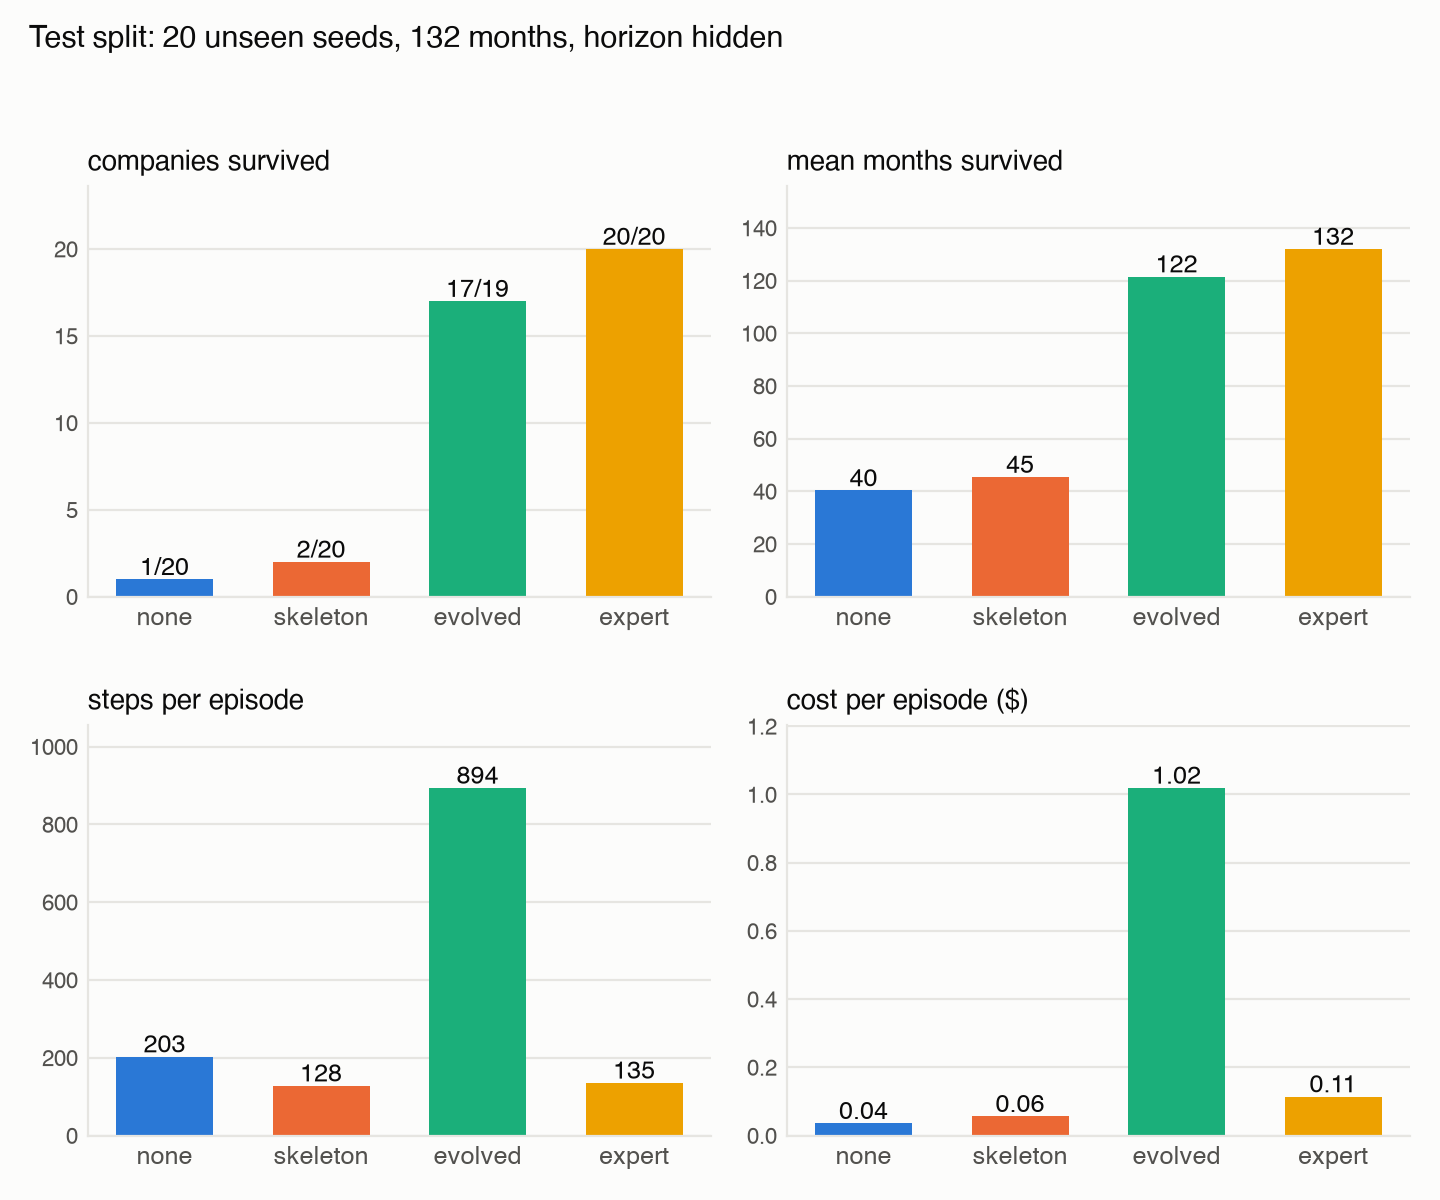
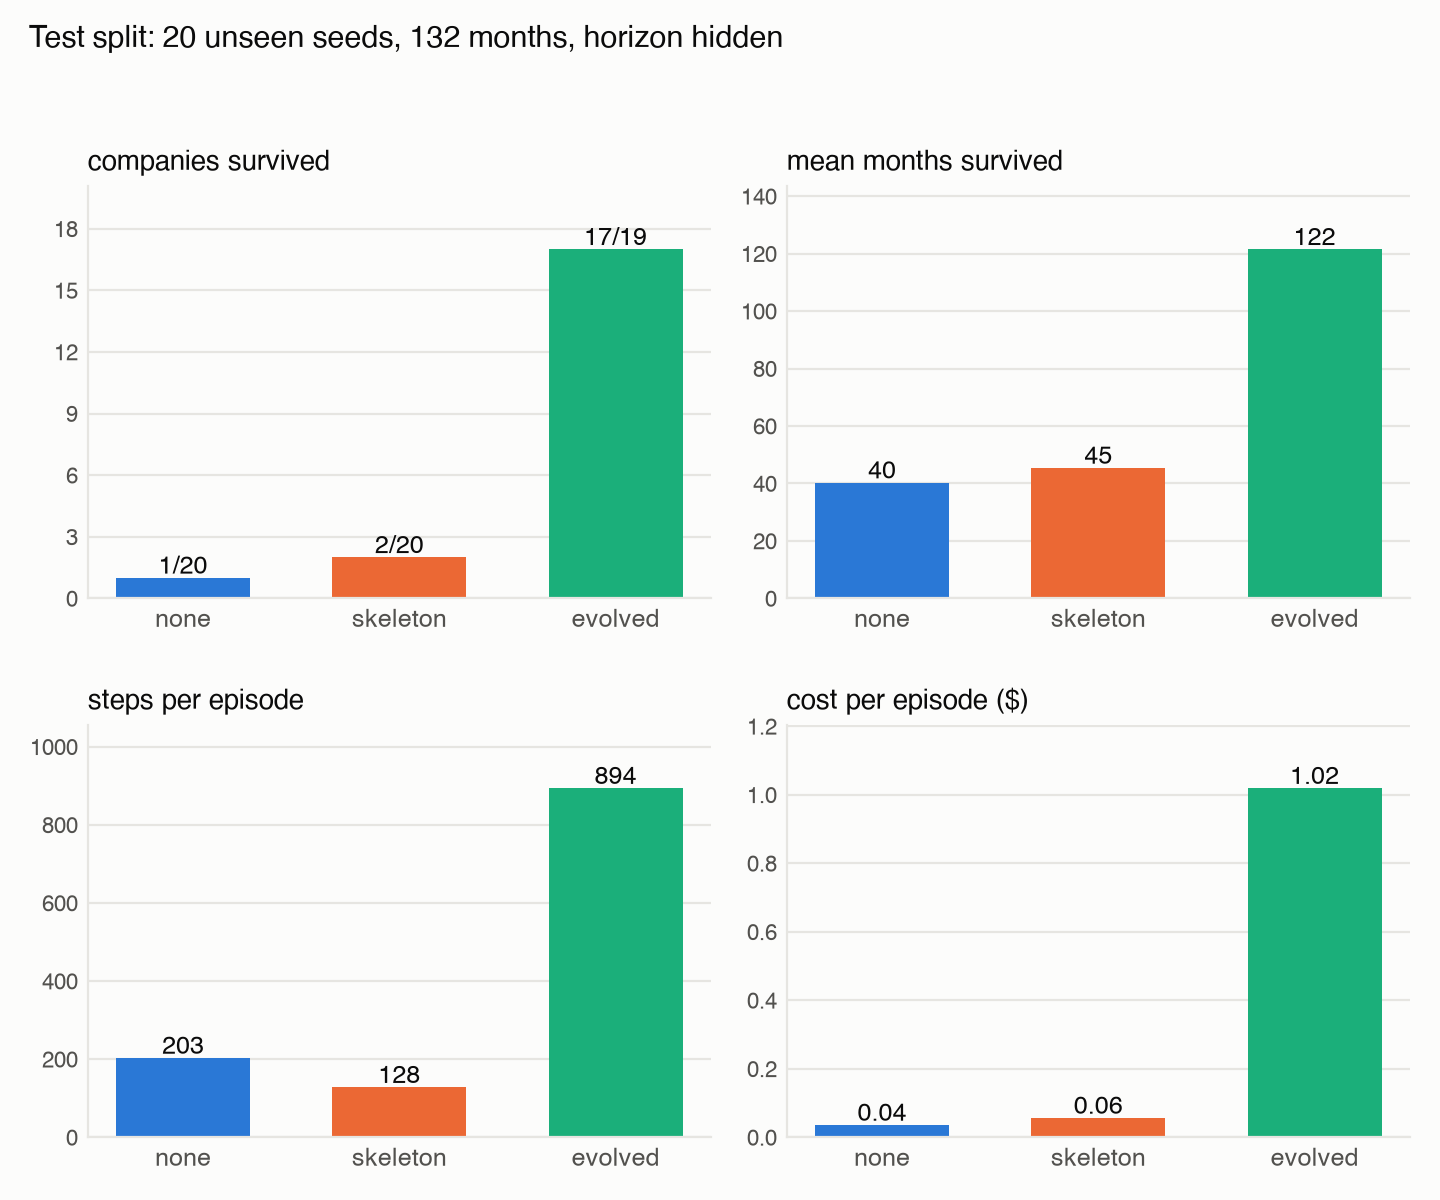
Charts: --exclude option; ea-run3 figures without the expert graph

diff --git a/analysis/result_charts.py b/analysis/result_charts.py
@@ -15,6 +15,7 @@ from statistics import mean
 
 import matplotlib
 import matplotlib.pyplot as plt
+import matplotlib.ticker
 
 from pg.evaluate import label_of
 from pg.trajectory import read_jsonl
@@ -37,9 +38,10 @@ def short(spec: str) -> str:
 ORDER = ["none", "skeleton", "evolved", "expert"]  # least to most procedural knowledge; anything else goes after, as run
 
 
-def load(run_dir: Path) -> dict[str, list]:
-    """Trajectories per graph, ordered none -> skeleton -> evolved -> expert, errored episodes dropped."""
-    specs = [r["graph"] for r in json.loads((run_dir / "metrics.json").read_text())]
+def load(run_dir: Path, exclude: set[str] = frozenset()) -> dict[str, list]:
+    """Trajectories per graph, ordered none -> skeleton -> evolved -> expert, errored episodes dropped.
+    `exclude` names graphs (by their short label) to leave out."""
+    specs = [r["graph"] for r in json.loads((run_dir / "metrics.json").read_text()) if short(r["graph"]) not in exclude]
     specs.sort(key=lambda s: ORDER.index(short(s)) if short(s) in ORDER else len(ORDER))
     return {s: [t for t in read_jsonl(run_dir / f"{label_of(s)}.jsonl") if not t.error] for s in specs}
 
@@ -63,6 +65,8 @@ def metrics_panel(data: dict, out: Path) -> None:
             ax.text(b.get_x() + b.get_width() / 2, b.get_height(), label, ha="center", va="bottom", fontsize=9, color=INK)
         ax.set_title(title, loc="left", fontsize=10, color=INK)
         ax.set_ylim(0, max(vals) * 1.18)
+        if title.startswith("companies"):
+            ax.yaxis.set_major_locator(matplotlib.ticker.MaxNLocator(integer=True))
         ax.tick_params(axis="x", length=0, labelsize=9); ax.tick_params(axis="y", length=0, labelsize=8)
         ax.grid(axis="y", color=GRID, linewidth=0.8); ax.set_axisbelow(True)
     fig.suptitle("Test split: 20 unseen seeds, 132 months, horizon hidden", x=0.02, ha="left", fontsize=11, color=INK)
@@ -76,12 +80,12 @@ def survival(data: dict, out: Path) -> None:
         months = [t.metrics["months_survived"] for t in ts]
         xs = list(range(horizon + 1)); ys = [sum(m >= x for m in months) / len(months) for x in xs]
         ax.step(xs, ys, where="post", color=color, linewidth=2)
-        ax.text(horizon + 1.5, ys[-1] + (0.03 if spec.endswith("expert.json") else -0.03 if short(spec) == "evolved" else 0),
+        ax.text(horizon + 1.5, ys[-1],
                 f"{short(spec)}  {ys[-1]:.0%}", va="center", fontsize=9, color=INK)
     ax.set_xlim(0, horizon + 22); ax.set_xticks(range(0, horizon + 1, 20)); ax.set_ylim(0, 1.04); ax.set_xlabel("month"); ax.set_ylabel("companies still solvent")
     ax.set_yticks([0, 0.25, 0.5, 0.75, 1]); ax.set_yticklabels(["0%", "25%", "50%", "75%", "100%"])
     ax.grid(axis="y", color=GRID, linewidth=0.8); ax.set_axisbelow(True)
-    ax.set_title("Survival by month, 20 test seeds per graph", loc="left", fontsize=10, color=INK)
+    ax.set_title(f"Survival by month, {max(len(ts) for ts in data.values())} test seeds per graph", loc="left", fontsize=10, color=INK)
     fig.tight_layout(); fig.savefig(out / "survival.png"); plt.close(fig)
 
 
@@ -123,9 +127,10 @@ def main(argv: list[str] | None = None) -> None:
     p.add_argument("run_dir", type=Path)
     p.add_argument("--evolve", type=Path, default=None, help="evolve run directory, for evolution.png")
     p.add_argument("--out", type=Path, default=None, help="default: <run_dir>/charts")
+    p.add_argument("--exclude", default="", help="graphs to leave out, by short label, comma-separated (e.g. expert)")
     a = p.parse_args(argv)
     out = a.out or a.run_dir / "charts"; out.mkdir(parents=True, exist_ok=True)
-    data = load(a.run_dir)
+    data = load(a.run_dir, {x.strip() for x in a.exclude.split(",") if x.strip()})
     metrics_panel(data, out); survival(data, out)
     if a.evolve:
         evolution(a.evolve, out)

diff --git a/analysis/README.md b/analysis/README.md
@@ -7,7 +7,7 @@ from here. Deleting `analysis/` must leave `pg evolve` / `pg eval` fully working
 | File | What it is |
 |---|---|
 | [`paired_comparison.py`](paired_comparison.py) | Is a graph really better? Paired statistics over one or more `pg eval` run directories (bootstrap CI over tasks, exact McNemar on success) |
-| [`result_charts.py`](result_charts.py) | Static charts of an eval run for reports: 2x2 bars (survived, months, steps, cost), survival-by-month curves, and the evolution curve from an evolve log. `uv run --with matplotlib python -m analysis.result_charts runs/<stamp>-eval-<env> --evolve graphs/evolved/<run>` |
+| [`result_charts.py`](result_charts.py) | Static charts of an eval run for reports: 2x2 bars (survived, months, steps, cost), survival-by-month curves, and the evolution curve from an evolve log. `uv run --with matplotlib python -m analysis.result_charts runs/<stamp>-eval-<env> --evolve graphs/evolved/<run> [--exclude expert]` |
 | [`graph_evolution.py`](graph_evolution.py) | How a graph changed over an evolve run: text diff, Mermaid per round, interactive timeline; also `graph_to_svg` / `graph_to_mermaid` for drawing any graph |
 | [`timeline_template.html`](timeline_template.html) | The timeline page `graph_evolution.py report` fills in (self-contained apart from the dagre layout library, loaded from a CDN) |
 | [`walkthrough.ipynb`](walkthrough.ipynb) | **Start here.** The walkthrough as an executable notebook: the conceptual map, then every mechanism exercised by a cell on HotpotQA, ending with a real three-round evolution and its timeline. Saved with outputs. Sections 1–6, 8, 10–11 and 13 need no API key; the live sections cost about $1.50 in total (the evolve cell reuses its run on re-open). Graph diagrams are SVGs made with Graphviz: `brew install graphviz` (the `dot` binary; the Python package is a dev dependency); without it the notebook falls back to Mermaid blocks. `uv run --with jupyterlab jupyter lab` from the repo root |
